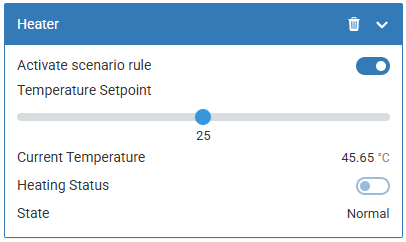
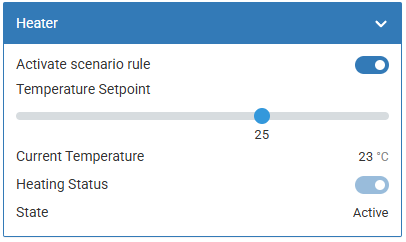
add screenshots

diff --git a/scenarios/thermostat/README.md b/scenarios/thermostat/README.md
@@ -6,11 +6,19 @@
 - Гистерезис — двухпозиционное регулирование с заданным гистерезисом;
 - PID + ШИМ — пропорционально-интегрально-дифференциальное регулирование с широтно-импульсной модуляцией.
 
-Конфигуратор сценария выглядит следующим образом:
+Конфигуратор сценария в режиме Гистерезис:
 
 <p align="center">
     <img width="400"
          src="img/scenario-cfg-view.png"
+         alt="Scenario cfg view" />
+</p>
+
+Конфигуратор сценария в режиме PID + ШИМ:
+
+<p align="center">
+    <img width="400"
+         src="img/scenario-cfg-pid-view.png"
          alt="Scenario cfg view" />
 </p>
 
@@ -54,12 +62,20 @@
 
 ### Внешний вид
 
-Создаваемое сценарием виртуальное устройство выглядит следующим образом:
+Создаваемое сценарием виртуальное устройство в режиме Гистерезис:
 
 <p align="center">
     <img width="400"
          src="img/scenario-vd-view.png"
          alt="Virtual device view" />
+</p>
+
+Создаваемое сценарием виртуальное устройство в режиме PID + ШИМ:
+
+<p align="center">
+    <img width="400"
+         src="img/scenario-vd-pid-view.png"
+         alt="Scenario cfg view" />
 </p>
 
 ### Заголовок (Title)
@@ -275,8 +291,12 @@ function main() {
 main();
 ```
 
+После запуска скрипта у вас с устройствах появится новое устройство
+для управления - которое будет аналогично тому, что вы можете создать через
+визульный конфигуратор в WEBUI контроллера:
+
 <p align="center">
     <img width="400"
-         src="img/scenario-vd-view.png"
+         src="img/scenario-vd-pid-view.png"
          alt="Virtual device view" />
 </p>
